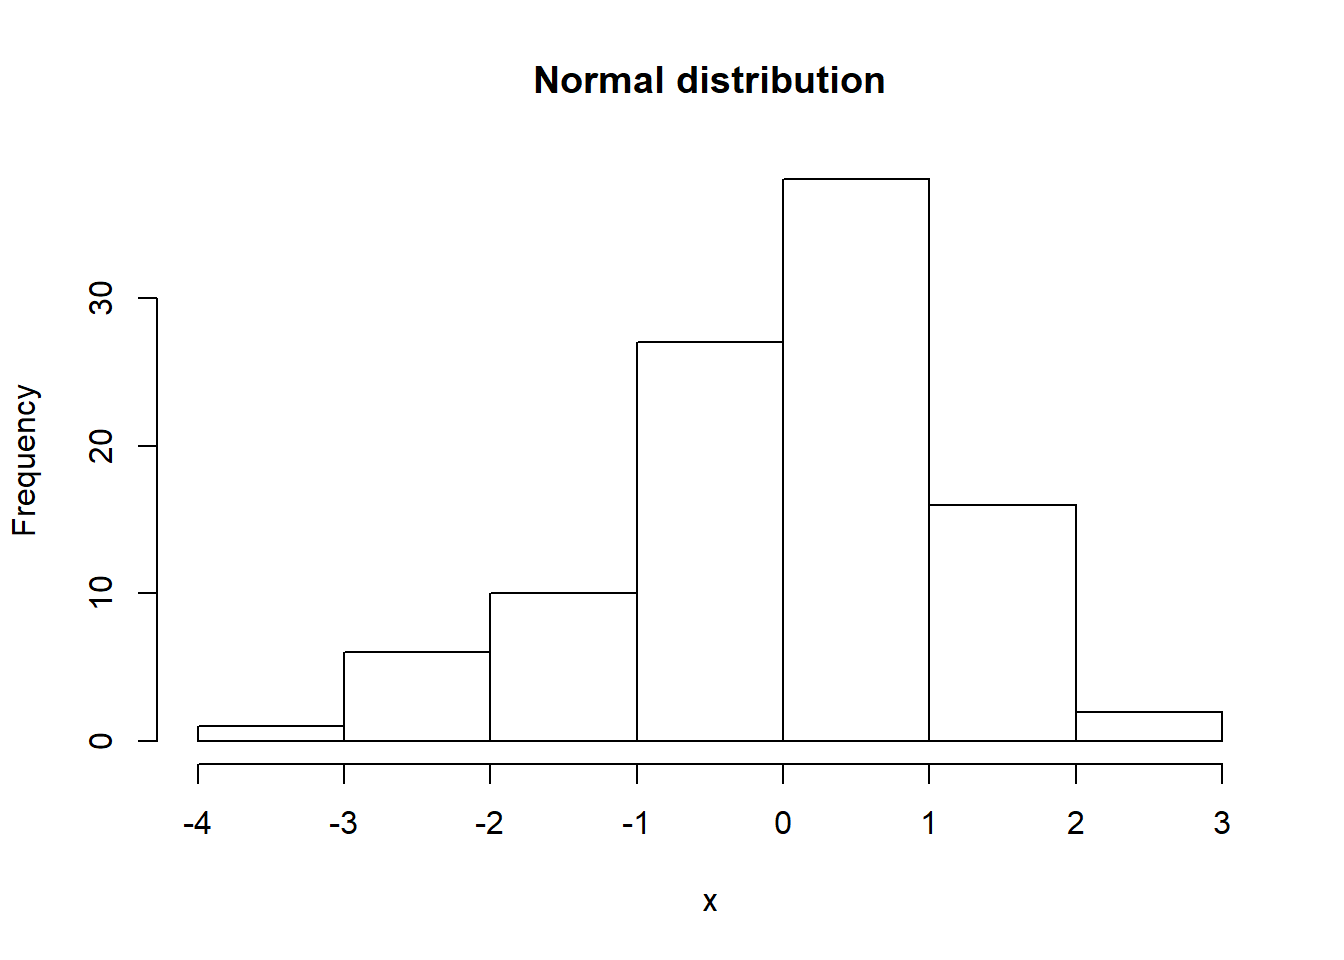
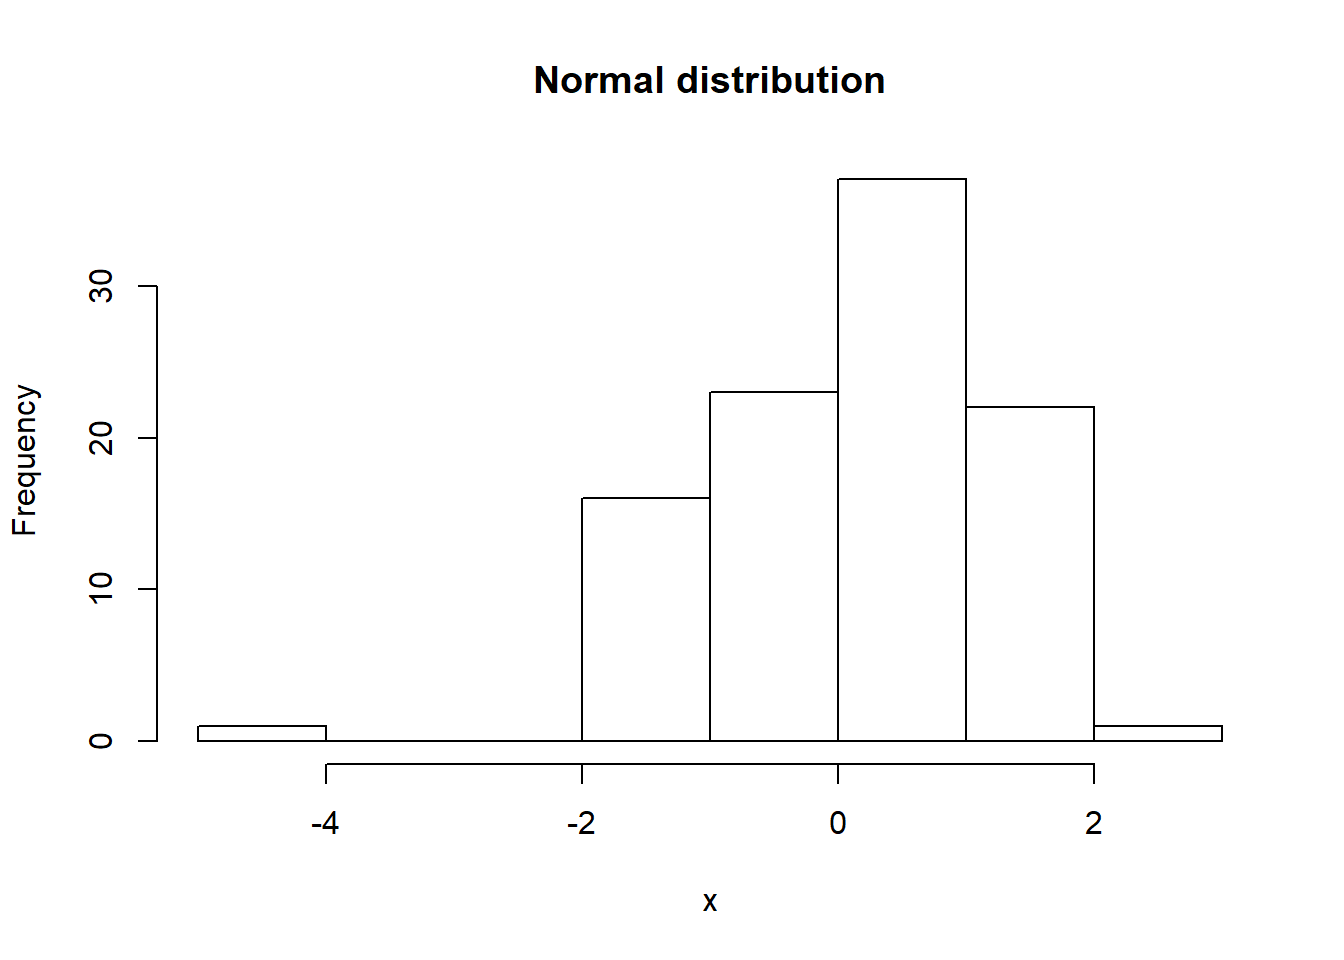
Color box updated

diff --git a/Homework_1.html b/Homework_1.html
@@ -494,23 +494,49 @@ $(document).ready(function () {
 <div class="sourceCode" id="cb6"><pre class="sourceCode r"><code class="sourceCode r"><a class="sourceLine" id="cb6-1" title="1">b &lt;-<span class="st"> </span><span class="dv">100</span></a>
 <a class="sourceLine" id="cb6-2" title="2">x &lt;-<span class="st"> </span><span class="kw">rnorm</span>(b)</a>
 <a class="sourceLine" id="cb6-3" title="3"><span class="kw">head</span>(x)</a></code></pre></div>
-<pre><code>## [1]  0.4147054  0.5133845 -1.3522436  0.2612022  0.2442793 -2.0334612</code></pre>
+<pre><code>## [1]  0.7142265  1.9185672  0.6952875  1.2089405 -1.7120991 -1.5225169</code></pre>
 <div class="sourceCode" id="cb8"><pre class="sourceCode r"><code class="sourceCode r"><a class="sourceLine" id="cb8-1" title="1"><span class="kw">median</span>(x)</a></code></pre></div>
-<pre><code>## [1] 0.2181763</code></pre>
+<pre><code>## [1] 0.2609977</code></pre>
 <div class="sourceCode" id="cb10"><pre class="sourceCode r"><code class="sourceCode r"><a class="sourceLine" id="cb10-1" title="1"><span class="kw">mean</span>(x)</a></code></pre></div>
-<pre><code>## [1] 0.03210741</code></pre>
+<pre><code>## [1] 0.1350717</code></pre>
 <div class="sourceCode" id="cb12"><pre class="sourceCode r"><code class="sourceCode r"><a class="sourceLine" id="cb12-1" title="1"><span class="kw">var</span>(x)</a></code></pre></div>
-<pre><code>## [1] 1.249167</code></pre>
+<pre><code>## [1] 1.163565</code></pre>
 <p>The values seen above are slightly different from the theoretical ones (i.e. 0 and 1) since the random values were created by simulation. The values would get closer to 0 and 1 if we increase the sample size (i.e. b). It stems from the theorem <strong>Law of Large Numbers</strong>.</p>
 <p><strong>Histogram</strong></p>
 <div class="sourceCode" id="cb14"><pre class="sourceCode r"><code class="sourceCode r"><a class="sourceLine" id="cb14-1" title="1"><span class="kw">hist</span>(x, <span class="dt">main=</span><span class="st">&quot;Normal distribution&quot;</span>)</a></code></pre></div>
[2 lines of base64/hex data omitted]
 <p><strong>Equation</strong> <span class="math display">\[\begin{align}
 \mathbb{E}[var \{v_{1}(\hat{\theta},n) |\hat{\theta} \}] &amp;=var \{v_{1}(\theta_{0}, n) \}+\mathbb{E}[\mathcal{O}_{p} \{D_{1}(\theta^{*},n)(\hat{\theta}-\theta_{0}), \cdots , D_{p}(\theta^{*},n)(\theta-\theta_{0}) \}] \\
 &amp;= var \{v_{1}(\theta_{0}, n) \}+\mathcal{O}(n^{-2})
 \end{align}\]</span></p>
 <p><strong>In-line Equation</strong></p>
 <p><span class="math inline">\(A\)</span> is defined as <span class="math inline">\(A \equiv [a_{i,j=1,\cdots,p}]\)</span></p>
+<p><strong>Text in Blue</strong></p>
+<p><span style="color:blue">“Vérité dans un temps, erreur dans un autre.”, Charles de Montesquieu</span></p>
+<p><strong>More Info</strong></p>
+<script>
+function myFunction() {
+    var x = document.getElementById("myDIV");
+    if (x.style.display === "none") {
+        x.style.display = "block";
+    } else {
+        x.style.display = "none";
+    }
+}
+</script>
+<button onclick="myFunction()">
+More info
+</button>
+<div id="myDIV">
+<p>More information will be available soon.</p>
+</div>
+<p><strong>Color Box</strong></p>
+<style>
+div.green pre { background-color:lightgreen; font-color:white; }
+</style>
+<div class="green">
+<div class="sourceCode" id="cb15"><pre class="sourceCode r"><code class="sourceCode r"><a class="sourceLine" id="cb15-1" title="1"><span class="co">##Important info</span></a></code></pre></div>
+</div>
 </div>
 </div>
 
